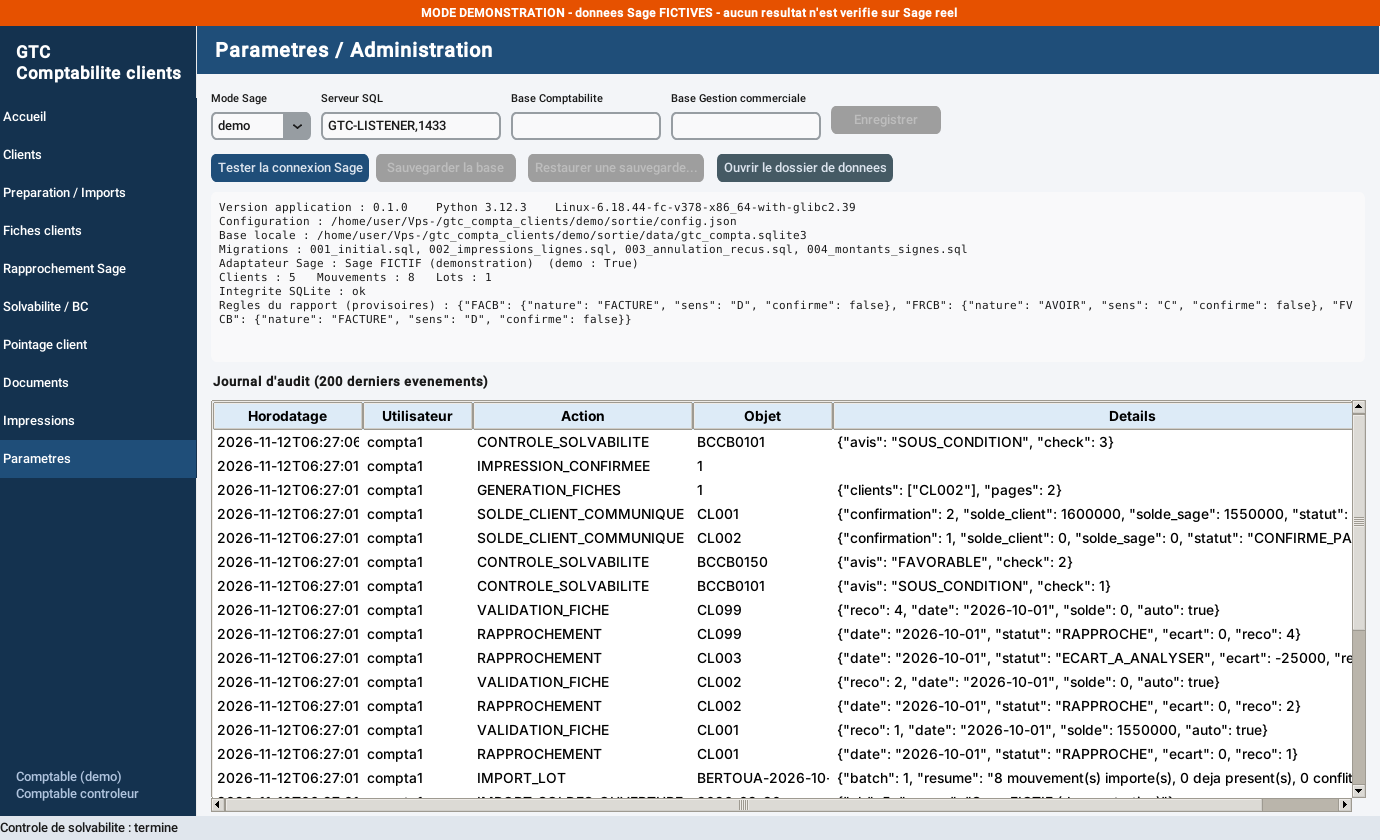
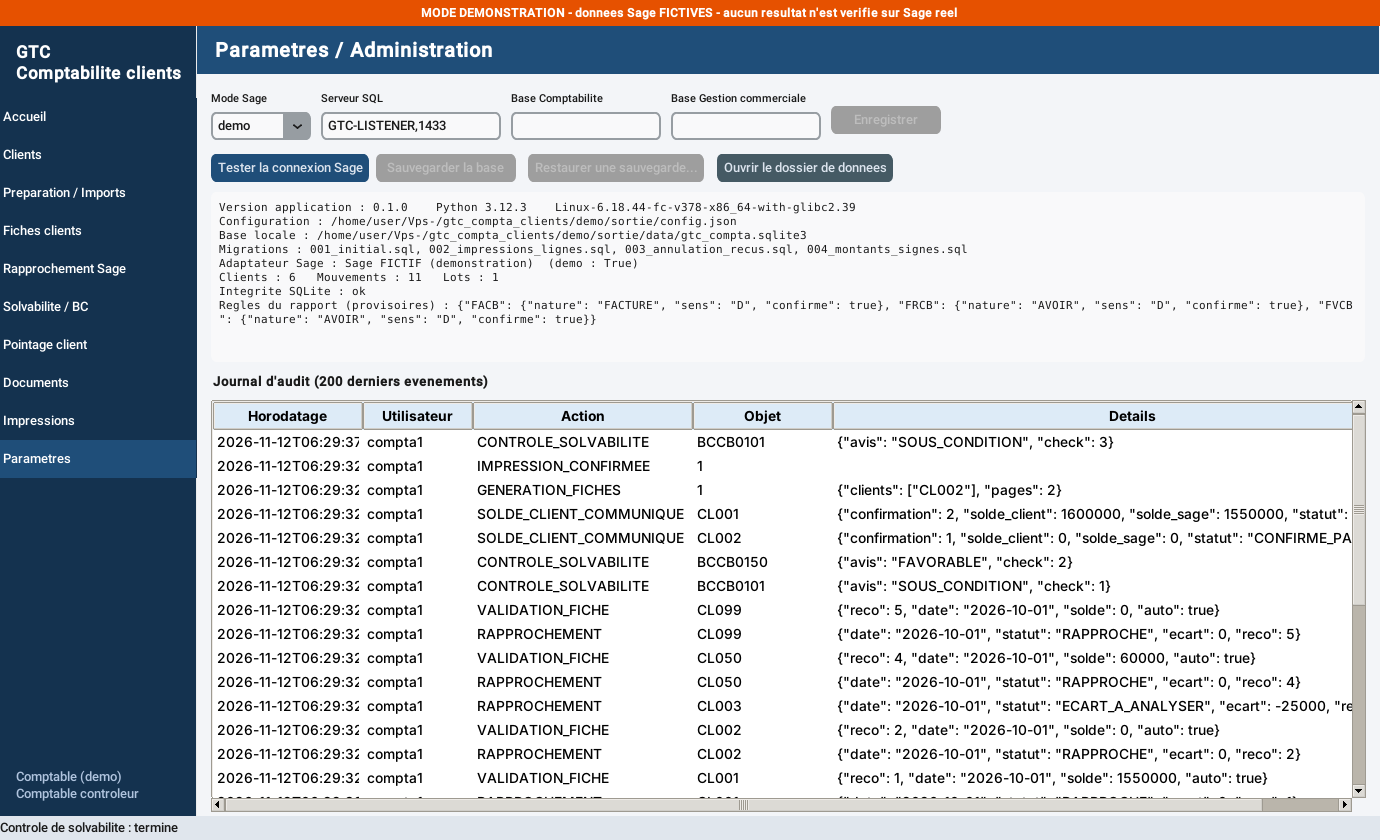
feat(compta-clients): COMPTE DE LIAISON, VENTE PROMOTIONNELLE, SOURCE DU PAYS RETOUR = clients
Precision de la comptabilite : ces trois libelles sont des comptes clients
Sage normaux (delegation commerciale, compte fournisseur des destockeurs,
clients payant par un autre moyen). COMPTE DE LIAISON n'est plus exclu ; seuls
les versements de caisse et les totaux le restent.
- verification : factures comptant de COMPTE DE LIAISON adossees a des
  acomptes de BC (regle d'imputation applicable)
- paiements passes directement en comptabilite : reprise option A
- demo, tests et documentation mis a jour ; 82 tests

Claude-Session: https://claude.ai/code/session_01Y1jhb7ptYrBLLHPzKGYzbe

diff --git a/gtc_compta_clients/tools/make_demo.py b/gtc_compta_clients/tools/make_demo.py
@@ -68,7 +68,8 @@ def rapport(path):
         [None, "FRCB0001", "ETS ALPHA", "EN COMPTE", None, None, None, -50000],              # avoir / retour
         [None, "FACB0204", "NOUVEAU CLIENT X", "EN COMPTE", None, None, None, 75000],        # sans correspondance
         ["BC0105", "FACB0205", "ETS ALPHA", "ANNULEE", 0, None, 0, None],                    # annulee
-        ["BC0106", "FACB0206", "COMPTE DE LIAISON", "REUNION DIRECTION", 2700, None, 2700, None],  # liaison
+        ["BC0106", "FACB0206", "COMPTE DE LIAISON", "REUNION DIRECTION", 2700, None, 2700, None],  # client liaison (comptant)
+        [None, "FACB0207", "COMPTE DE LIAISON", "EN COMPTE", None, None, None, 60000],        # liaison en compte
     ], [
         ["7RCB0451", "ETS ALPHA", 300000],
     ])
@@ -93,6 +94,7 @@ SAGE = {
         {"ct_num": "CL002", "intitule": "QUINCAILLERIE BETA", "telephone": "677000002", "ville": "BERTOUA", "encours_autorise": 500000},
         {"ct_num": "CL003", "intitule": "SOCIETE GAMMA", "telephone": "655000003", "ville": "BATOURI", "encours_autorise": 1000000},
         {"ct_num": "CL004", "intitule": "DELTA SARL", "telephone": "", "ville": "BELABO", "encours_autorise": 0},
+        {"ct_num": "CL050", "intitule": "COMPTE DE LIAISON", "telephone": "", "ville": "BERTOUA", "encours_autorise": None},
         {"ct_num": "CL099", "intitule": "CLIENTS DETAILS BTA", "telephone": "", "ville": "BERTOUA", "encours_autorise": None},
     ],
     "ecritures": [
@@ -108,6 +110,9 @@ SAGE = {
         {"ec_no": 14, "ct_num": "CL002", "journal": "CAI", "date_ecriture": "2026-10-01", "numero_piece": "RC0452", "reference_piece": "BC0102", "libelle": "Acompte sur commande BC0102", "sens": "C", "montant": 120000},
         {"ec_no": 15, "ct_num": "CL003", "journal": "VTE", "date_ecriture": "2026-10-01", "numero_piece": "FACB0203", "reference_piece": "FACB0203", "libelle": "Facture FACB0203", "sens": "D", "montant": 200000, "date_echeance": "2026-10-15"},
         {"ec_no": 16, "ct_num": "CL003", "journal": "OD", "date_ecriture": "2026-10-01", "numero_piece": "OD0007", "reference_piece": "", "libelle": "Frais de transport refactures", "sens": "D", "montant": 25000},
+        {"ec_no": 19, "ct_num": "CL050", "journal": "VTE", "date_ecriture": "2026-10-01", "numero_piece": "FACB0206", "reference_piece": "FACB0206", "libelle": "Facture FACB0206", "sens": "D", "montant": 2700},
+        {"ec_no": 20, "ct_num": "CL050", "journal": "CAI", "date_ecriture": "2026-10-01", "numero_piece": "RC0454", "reference_piece": "BC0106", "libelle": "Acompte BC0106", "sens": "C", "montant": 2700},
+        {"ec_no": 21, "ct_num": "CL050", "journal": "VTE", "date_ecriture": "2026-10-01", "numero_piece": "FACB0207", "reference_piece": "FACB0207", "libelle": "Facture FACB0207", "sens": "D", "montant": 60000},
         {"ec_no": 17, "ct_num": "CL099", "journal": "VTE", "date_ecriture": "2026-10-01", "numero_piece": "FACB0202", "reference_piece": "FACB0202", "libelle": "Facture detail", "sens": "D", "montant": 35000},
         {"ec_no": 18, "ct_num": "CL099", "journal": "CAI", "date_ecriture": "2026-10-01", "numero_piece": "RC0453", "reference_piece": "", "libelle": "Acompte detail", "sens": "C", "montant": 35000},
     ],

diff --git a/gtc_compta_clients/tests/test_parser.py b/gtc_compta_clients/tests/test_parser.py
@@ -22,7 +22,7 @@ def analyser(cfg, feuille="01", fichier=None, corr=CORR):
 # Rapport REEL (anonymise) : chiffres de reference etablis sur 10 RC OCT.xlsx
 # ---------------------------------------------------------------------------------------
 @pytest.mark.parametrize("feuille,fact,avoirs,acomptes,recus,annulees", [
-    ("01", 124, 1, 84, 23, 8), ("03", 164, 5, 83, 38, 8), ("12", 245, 2, 154, 62, 9), ("14", 178, 29, 91, 28, 1)])
+    ("01", 124, 1, 84, 23, 8), ("03", 165, 6, 85, 38, 8), ("12", 247, 2, 156, 62, 9), ("14", 181, 32, 97, 28, 1)])
 def test_reel_comptages(cfg, feuille, fact, avoirs, acomptes, recus, annulees):
     s = analyser(cfg, feuille, REEL, {}).stats
     assert (s["factures"], s["avoirs"], s["acomptes"], s["reglements"], s["annulees"]) == \
@@ -100,10 +100,16 @@ def test_recu_negatif_sans_original_avertit(cfg):
     assert any("7RCB0462" in x.motif and x.gravite == "AVERTISSEMENT" for x in r.anomalies)
 
 
-def test_reel_liaisons_et_versements_exclus(cfg):
+def test_reel_compte_de_liaison_est_un_client(cfg):
+    """COMPTE DE LIAISON, VENTE PROMOTIONNELLE, SOURCE DU PAYS RETOUR : comptes clients Sage reels."""
     r = analyser(cfg, "03", REEL, {})
-    assert not any("LIAISON" in m.client_libelle for m in r.mouvements)
-    assert r.stats["montants_exclus"]["H"] == -81515
+    liaison = [m for m in r.mouvements if m.client_libelle == "COMPTE DE LIAISON"]
+    assert {m.reference_piece for m in liaison} >= {"FRCB000747", "FACB038198"}
+    av = next(m for m in liaison if m.reference_piece == "FRCB000747")
+    assert (av.nature, av.sens, av.montant) == ("AVOIR", "D", -172995)
+    assert r.stats["montants_exclus"].get("H", 0) == 0
+    # les versements de caisse restent exclus
+    assert not any("VERSEMENT" in m.client_libelle for m in r.mouvements)
 
 
 # ---------------------------------------------------------------------------------------
@@ -112,12 +118,12 @@ def test_reel_liaisons_et_versements_exclus(cfg):
 def test_cas1_seules_les_deux_sections_utiles(cfg):
     r = analyser(cfg)
     assert {m.reference_piece for m in r.factures} == {"FACB0201", "FACB0301", "FACB0202", "FACB0203",
-                                                       "FRCB0001", "FACB0204"}
+                                                       "FRCB0001", "FACB0204", "FACB0206", "FACB0207"}
     assert {m.reference_piece for m in r.reglements} == {"7RCB0451"}
     assert sum(m.montant for m in r.reglements) == 300000     # REPORT, versements caisse, BTF exclus
-    assert {m.reference_piece for m in r.acomptes} == {"FACB0301", "FACB0202"}   # liaison exclue
+    assert {m.reference_piece for m in r.acomptes} == {"FACB0301", "FACB0202", "FACB0206"}
     assert r.stats["annulees"] == 1
-    assert r.stats["hors_perimetre_exclus"] == 5   # liaison + REPORT + versements caisse + BTF + SOLDE
+    assert r.stats["hors_perimetre_exclus"] == 4   # REPORT + versements caisse + BTF + SOLDE
     assert all(v["ecart_non_explique"] == 0 for v in r.stats["controle_totaux"].values())
 
 

diff --git a/gtc_compta_clients/tests/test_flux.py b/gtc_compta_clients/tests/test_flux.py
@@ -28,7 +28,7 @@ def importer(db, user, cfg, feuille="01"):
 
 def test_import_et_rejet_client_non_mappe(base, user, cfg):
     rap = importer(base, user, cfg)
-    assert rap.inseres == 8 and len(rap.rejets) == 1
+    assert rap.inseres == 11 and len(rap.rejets) == 1
     assert "Code tiers absent" in rap.rejets[0][1]
 
 
@@ -41,7 +41,7 @@ def test_cas3_reimport_zero_doublon(base, user, cfg):
     for l in lignes:
         l["id_import"] = "AUTRE-FICHIER"
     rap2 = imports.importer_lot(base, user, lignes, "copie.xlsx", "y")
-    assert rap2.inseres == 0 and rap2.deja_presents == 8
+    assert rap2.inseres == 0 and rap2.deja_presents == 11
     assert base.scalar("SELECT COUNT(*) FROM normalized_movements") == n
 
 
@@ -77,6 +77,7 @@ def test_cas5_cas6_concordance_et_ecart(base, user, cfg, sage):
     importer(base, user, cfg)
     res = {r.ct_num: r for r in reco.rapprocher(base, user, sage, J1)}
     assert res["CL001"].statut == "VALIDE" and res["CL002"].statut == "VALIDE" and res["CL099"].statut == "VALIDE"
+    assert res["CL050"].statut == "VALIDE" and res["CL050"].solde_erp == 60000      # COMPTE DE LIAISON
     r = base.one("SELECT * FROM daily_reconciliations WHERE ct_num='CL001' AND obsolete=0")
     preuve = json.loads(r["preuve_json"])
     assert r["valide_par"] == "AUTO:compta1" and r["empreinte_sage"] and preuve["nb_ecritures_sage"] == 3
@@ -173,7 +174,7 @@ def test_fichier_correspondances_export_import(db, user, sage, cfg, tmp_path):
     svc_clients.synchroniser_clients(db, user, sage, cfg["rapport"]["comptes_collectifs"])
     n = svc_clients.exporter_libelles_a_completer(db, cfg["rapport"], DEMO / "RC_DEMO_SYNTHETIQUE.xlsx",
                                                   tmp_path / "c.xlsx")
-    assert n == 6                                      # 5 clients connus + NOUVEAU CLIENT X
+    assert n == 7                                      # 6 clients connus + NOUVEAU CLIENT X
     wb = load_workbook(tmp_path / "c.xlsx")
     ws = wb["CORRESPONDANCES"]
     for row in ws.iter_rows(min_row=2):

diff --git a/gtc_compta_clients/tools/demo_setup.py b/gtc_compta_clients/tools/demo_setup.py
@@ -28,9 +28,6 @@ def main():
     pdfs = OUT / "factures_pdf"
     pdfs.mkdir()
     cfg = {"data_dir": "data", "sage": {"mode": "demo"},
-           "rapport": {"types_documents": {"FACB": {"nature": "FACTURE", "sens": "D", "confirme": False},
-                                           "FVCB": {"nature": "FACTURE", "sens": "D", "confirme": False},
-                                           "FRCB": {"nature": "AVOIR", "sens": "C", "confirme": False}}},
            "documents": {"dossiers_pdf": [str(pdfs)], "dossier_export": str(OUT / "exports")},
            "utilisateur": {"login": "compta1", "nom": "Comptable (demo)", "role": "comptable_controleur"}}
     (OUT / "config.json").write_text(json.dumps(cfg, indent=2), encoding="utf-8")
@@ -38,10 +35,11 @@ def main():
     db, u, sage = ctx.db, ctx.user, ctx.sage
     clients.synchroniser_clients(db, u, sage, ctx.cfg["rapport"]["comptes_collectifs"])
     for lib, ct in {"ETS ALPHA": "CL001", "QUINCAILLERIE BETA": "CL002", "SOCIETE GAMMA": "CL003",
-                    "DELTA SARL": "CL004", "CLIENTS DETAILS BTA": "CL099"}.items():
+                    "DELTA SARL": "CL004", "CLIENTS DETAILS BTA": "CL099", "COMPTE DE LIAISON": "CL050"}.items():
         clients.definir_correspondance(db, u, lib, ct)
     for ct, zone, tel in [("CL001", "CENTRE", "699000001"), ("CL002", "CENTRE", "677000002"),
-                          ("CL003", "EST - BATOURI", "655000003"), ("CL004", "BELABO", ""), ("CL099", "CENTRE", "")]:
+                          ("CL003", "EST - BATOURI", "655000003"), ("CL004", "BELABO", ""), ("CL099", "CENTRE", ""),
+                          ("CL050", "CENTRE", "")]:
         clients.maj_champs_manuels(db, u, ct, zone=zone, delai_reglement_jours=30, telephone_whatsapp=tel or None)
     clients.importer_soldes_ouverture(db, u, sage, date(2026, 9, 30))
     rows = lire_feuille(ROOT / "demo" / "RC_DEMO_SYNTHETIQUE.xlsx", "01")

diff --git a/gtc_compta_clients/tests/test_modules.py b/gtc_compta_clients/tests/test_modules.py
@@ -91,7 +91,7 @@ def _valide(base, user, cfg, sage):
 def test_cas13_impression_differee_recto_verso(base, user, cfg, sage, tmp_path):
     _valide(base, user, cfg, sage)
     q = printing.file_attente(base, cfg["impression"])
-    assert [x["ct_num"] for x in q] == ["CL099", "CL001", "CL002"] or len(q) == 3
+    assert {x["ct_num"] for x in q} == {"CL001", "CL002", "CL050", "CL099"}
     res = printing.generer_fiches(base, user, [x["ct_num"] for x in q], tmp_path / "f.pdf", cfg)
     assert all(n % 2 == 0 for n in res["pages_par_client"].values())   # clients separes physiquement
     assert len(PdfReader(str(tmp_path / "f.pdf")).pages) == res["pages"]

diff --git a/gtc_compta_clients/gtc_compta/config.py b/gtc_compta_clients/gtc_compta/config.py
@@ -57,7 +57,7 @@ DEFAULTS: dict = {
         "factures_comptant": {"mode": "solder_par_acompte", "colonnes": ["H"], "confirme": False},
         "colonne_montant_recu": "F",
         "mots_exclusion": ["TOTAL", "SOUS-TOTAL", "S/TOTAL", "REPORT", "VERSEMENT CAISSE",
-                            "VERSEMENT BANQUE", "LIAISON", "CAISSE CENTRALE", "SOLDE"],
+                            "VERSEMENT BANQUE", "CAISSE CENTRALE", "SOLDE"],
         "comptes_collectifs": ["CLIENTS DETAILS BTA"],
         "correspondance_auto_intitule_exact": False,
         "lignes_vides_fin_section": 8

diff --git a/gtc_compta_clients/tests/conftest.py b/gtc_compta_clients/tests/conftest.py
@@ -19,7 +19,7 @@ DEMO = ROOT / "demo"
 REF = date(2026, 9, 30)
 J1 = date(2026, 10, 1)
 CORR = {"ETS ALPHA": "CL001", "QUINCAILLERIE BETA": "CL002", "SOCIETE GAMMA": "CL003",
-        "DELTA SARL": "CL004", "CLIENTS DETAILS BTA": "CL099"}
+        "DELTA SARL": "CL004", "CLIENTS DETAILS BTA": "CL099", "COMPTE DE LIAISON": "CL050"}
 
 
 @pytest.fixture(scope="session", autouse=True)

diff --git a/gtc_compta_clients/docs/MAPPING_RAPPORT.md b/gtc_compta_clients/docs/MAPPING_RAPPORT.md
@@ -51,12 +51,29 @@ reprend celle du 20/10 (32 789 775 au lieu de 6 738 250). Total RECAP 435 334 25
 | `FRCB` (60) et `FVCB` (59) | 119 | **toujours négatifs** : AVOIR au **débit négatif** (règle GTC) |
 | lignes `ANNULEE` | 106 | ignorées (bloquant si un montant est présent) |
 | factures à montant nul (`AVARIE`, `BONUS`, `AN`…) | 27 | aucune écriture, information |
-| `COMPTE DE LIAISON` | ~60 | hors périmètre (liaison interne) |
+| `COMPTE DE LIAISON`, `VENTE PROMOTIONNELLE`, `SOURCE DU PAYS RETOUR` | ~70 pièces | **comptes clients Sage normaux** (confirmé par la comptabilité) : traités comme tout client |
 | n° `BCCB` portant un montant facture | 8 | **bloquant** : le n° de facture manque |
 | même n° de facture pour 2 clients (`FACB039522` le 12/10) | 1 | avertissement + conflit enregistré à l'import |
 | reçus `7RCB` négatifs | 4 | **annulation d'un reçu fait sur un compte erroné** (règle confirmée par la comptabilité) : reçu au **crédit négatif**, lié au reçu annulé ; 3/4 liés automatiquement, 1 en alerte |
 | reçus | 913 | tous `7RCB`, montant en F (RECOUVREMENTS) |
 | libellés clients distincts | ~213 | fichier de correspondances à compléter |
+
+## Comptes clients particuliers (confirmé par la comptabilité le 12/11/2026)
+| Libellé | Nature | Fonctionnement |
+|---|---|---|
+| `VENTE PROMOTIONNELLE` | client (délégation commerciale) | facturée en compte, à crédit ; solde par reçus après la vente promotionnelle |
+| `SOURCE DU PAYS RETOUR` | client (compte rattaché à un fournisseur) | les déstockeurs y facturent puis effectuent le versement |
+| `COMPTE DE LIAISON` | client | facturation de clients sans cash immédiat ; le paiement (autre moyen) est passé en comptabilité dès réception de la preuve |
+| `CLIENTS DETAILS BTA` | compte collectif | acheteur réel en colonne E (ventilation analytique) |
+
+Conséquence pour le rapprochement : le paiement d'une facture COMPTE DE LIAISON passé directement en
+comptabilité n'apparaît pas dans le rapport. Il est détecté comme « écriture Sage absente du rapport » et
+repris par l'option A (reprise liée à l'EC_No, sans rien écrire dans Sage).
+
+Octobre : 40 factures, 7 avoirs et 46 acomptes imputés de plus qu'avec l'ancienne exclusion. Les factures
+comptant de COMPTE DE LIAISON sont toutes adossées à un acompte de BC (31 sur la même ligne, 14 sur un BC
+antérieur du mois, 1 sur un BC de septembre). Contrôle sur tout le mois : 2 520 factures comptant sur 2 537
+ont leur acompte visible en octobre ; les 17 autres portent des n° de BC antérieurs à octobre.
 
 ## Bons de commande et acomptes (règle confirmée par la comptabilité le 12/11/2026)
 - Tant qu'un montant est dans les colonnes BON DE COMMANDE (F « ENTREE » = acompte, G « BP »), **rien
@@ -105,7 +122,7 @@ Octobre 2026 :
 ## Contrôle de complétude (pour chaque jour)
 Pour chaque colonne H, I et F (acomptes) et pour la colonne F des reçus :
 1. **total du rapport = somme des lignes de détail**. Il est vérifié sur les 31 jours sans aucun écart.
-2. **somme des lignes = retenu + exclu (liaisons, caisse) + bloqué (anomalies)**. Il est vérifié sur les 31 jours.
+2. **somme des lignes = retenu + exclu (versements de caisse) + bloqué (anomalies)**. Il est vérifié sur les 31 jours.
    Un montant non interprété fait apparaître une anomalie bloquante.
 
 ## Points restant à confirmer par la comptabilité
@@ -113,5 +130,5 @@ Pour chaque colonne H, I et F (acomptes) et pour la colonne F des reçus :
    au premier rapprochement réel la **référence** sous laquelle Sage passe l'acompte imputé (n° de facture,
    de BC ou de règlement). L'appariement essaie les trois, puis date et montant.
 2. ~~Sens des `FVCB`~~ : réglé. Comme toute facture, ils vont au débit avec leur signe (négatif).
-3. **`COMPTE DE LIAISON`** : exclusion confirmée ? Existe-t-il un compte 411 correspondant dans Sage ?
-4. **`VENTE PROMOTIONNELLE`**, **`SOURCE DU PAYS RETOUR`** : comptes clients Sage réels ?
+3. ~~`COMPTE DE LIAISON`, `VENTE PROMOTIONNELLE`, `SOURCE DU PAYS RETOUR`~~ : réglé, ce sont des comptes
+   clients (voir « Comptes clients particuliers »).

diff --git a/gtc_compta_clients/docs/JOURNAL_AVANCEMENT.md b/gtc_compta_clients/docs/JOURNAL_AVANCEMENT.md
@@ -1,5 +1,14 @@
 # Journal d'avancement
 
+## Cycle 5 (12/11/2026) : comptes clients particuliers
+- COMPTE DE LIAISON, VENTE PROMOTIONNELLE et SOURCE DU PAYS RETOUR sont des comptes clients Sage normaux.
+  COMPTE DE LIAISON n'est plus exclu ; seuls les versements de caisse et les totaux le restent.
+- Vérification : les factures comptant de COMPTE DE LIAISON sont adossées à des acomptes de BC, donc la
+  règle « acompte imputé » s'applique ; ses paiements passés directement en comptabilité seront repris
+  par l'option A au rapprochement.
+- Mois réel : 4 218 factures, 126 avoirs, 2 537 acomptes imputés, 913 reçus ; totaux 31/31 cohérents. 82 tests.
+
+
 ## Cycle 4 (12/11/2026) : bons de commande et acomptes
 - Règle de la comptabilité : rien n'est comptabilisé au stade du BC (colonnes F et G non exploitées). Seules
   les factures (H, I) et les règlements passent à la mise à jour comptable.
@@ -44,7 +53,7 @@
 2. ~~Les FVCB~~ : réglé (débit avec leur signe, comme toute facture).
 3. ~~Reçus négatifs~~ : **réglé**. Il s'agit d'annulations de reçus faits sur un compte erroné (règle implémentée).
    Reste à vérifier : `7RCB030477` (ALH OUMAROU BOUBAKARY) a-t-il le même compte Sage que « OUMAROU BOUBAKARY » ?
-4. **COMPTE DE LIAISON**, **VENTE PROMOTIONNELLE**, **SOURCE DU PAYS RETOUR** : quels comptes Sage ?
+4. ~~COMPTE DE LIAISON, VENTE PROMOTIONNELLE, SOURCE DU PAYS RETOUR~~ : réglé (comptes clients).
 5. Les 8 lignes `BCCB` portant un montant de facture : quelle est la règle de correction attendue des commerciaux ?
 
 

diff --git a/gtc_compta_clients/docs/RAPPORT_TESTS.md b/gtc_compta_clients/docs/RAPPORT_TESTS.md
@@ -30,8 +30,8 @@ avec le vrai Sage reste à établir.
 
 ## Validation sur le rapport réel complet (31 jours, hors dépôt)
 `python tools/analyser_rapport.py "10 RC OCT.xlsx"` :
-- 4 178 factures, 119 avoirs, 2 491 acomptes imputés sur factures comptant, 913 reçus (+4 reçus négatifs) extraits ; 1 350 BC/BL seuls, 106 annulées,
-  27 factures à montant nul, liaisons et versements de caisse exclus ;
+- 4 218 factures, 126 avoirs, 2 537 acomptes imputés sur factures comptant, 913 reçus (+4 reçus négatifs) extraits ; 1 350 BC/BL seuls, 106 annulées,
+  30 factures à montant nul, versements de caisse exclus (COMPTE DE LIAISON traité comme un client) ;
 - **31/31 jours** : le total du rapport est égal à la somme des lignes, et la somme des lignes est égale à
   retenu + exclu + bloqué (aucun montant oublié) ;
 - 8 lignes bloquantes sur le mois (n° de BC portant une facture) ; les 4 reçus négatifs sont traités comme

diff --git a/gtc_compta_clients/docs/REGLES_METIER.md b/gtc_compta_clients/docs/REGLES_METIER.md
@@ -54,6 +54,9 @@
    `A_RAPPROCHER`, une alerte est créée et les confirmations client concernées sont marquées.
 
 ## Écritures Sage absentes du rapport
+Cas fréquent : le paiement d'un client COMPTE DE LIAISON, passé en comptabilité dès réception de la preuve
+de paiement, sans reçu dans le rapport.
+
 - **Option A** : reprise comme mouvement `COMPLEMENT_SAGE` lié à l'EC_No (unicité SQL), avec motif et
   justificatif. Elle est refusée si un mouvement ERP porte déjà la même référence (risque de double
   comptabilisation). Rien n'est écrit dans Sage.
